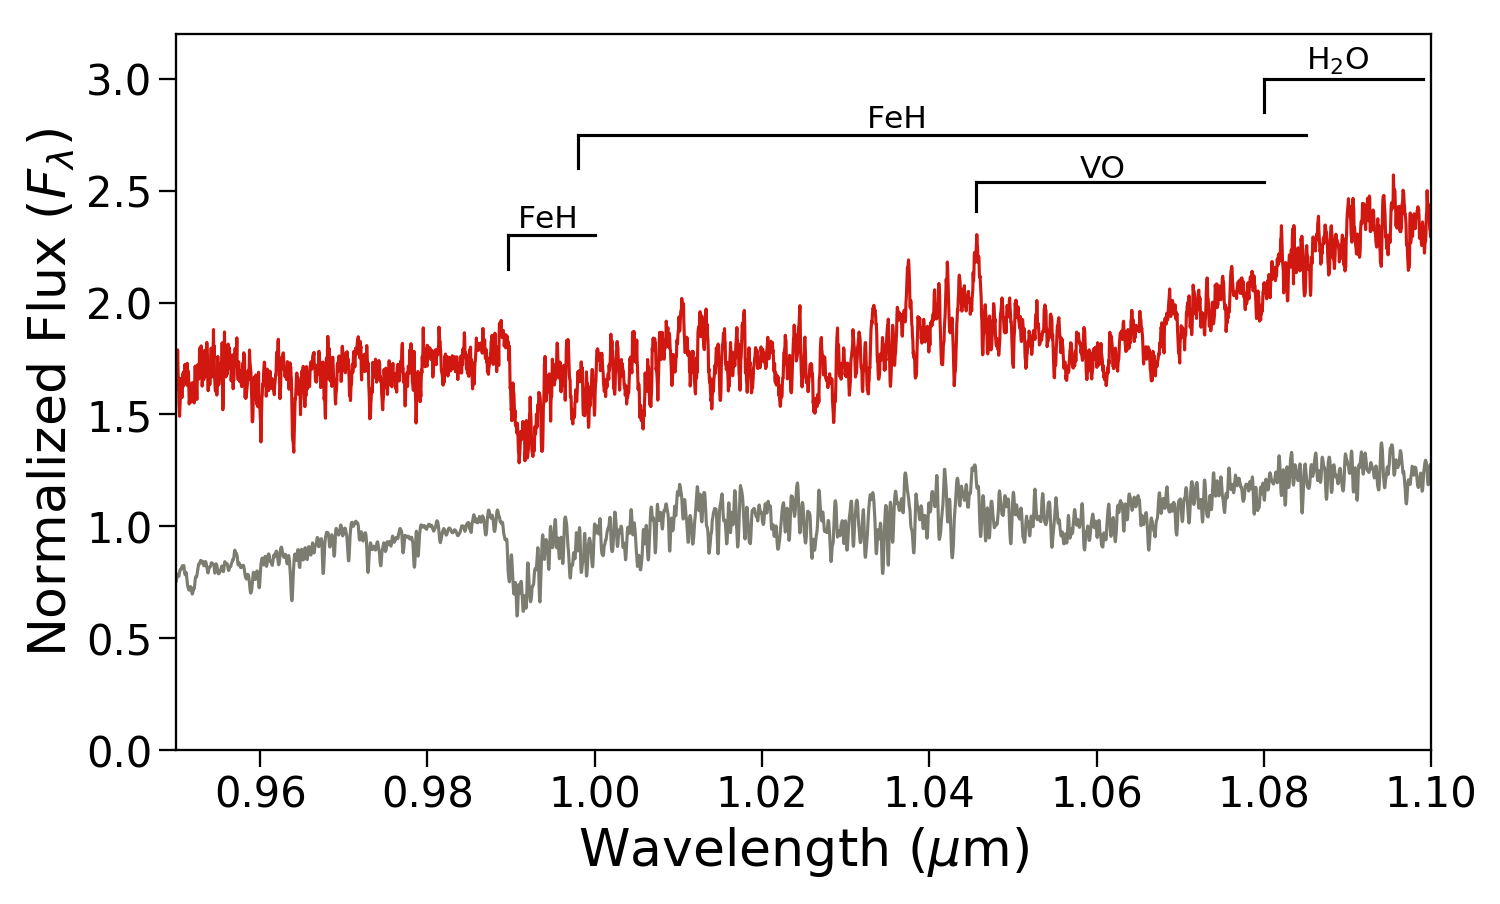
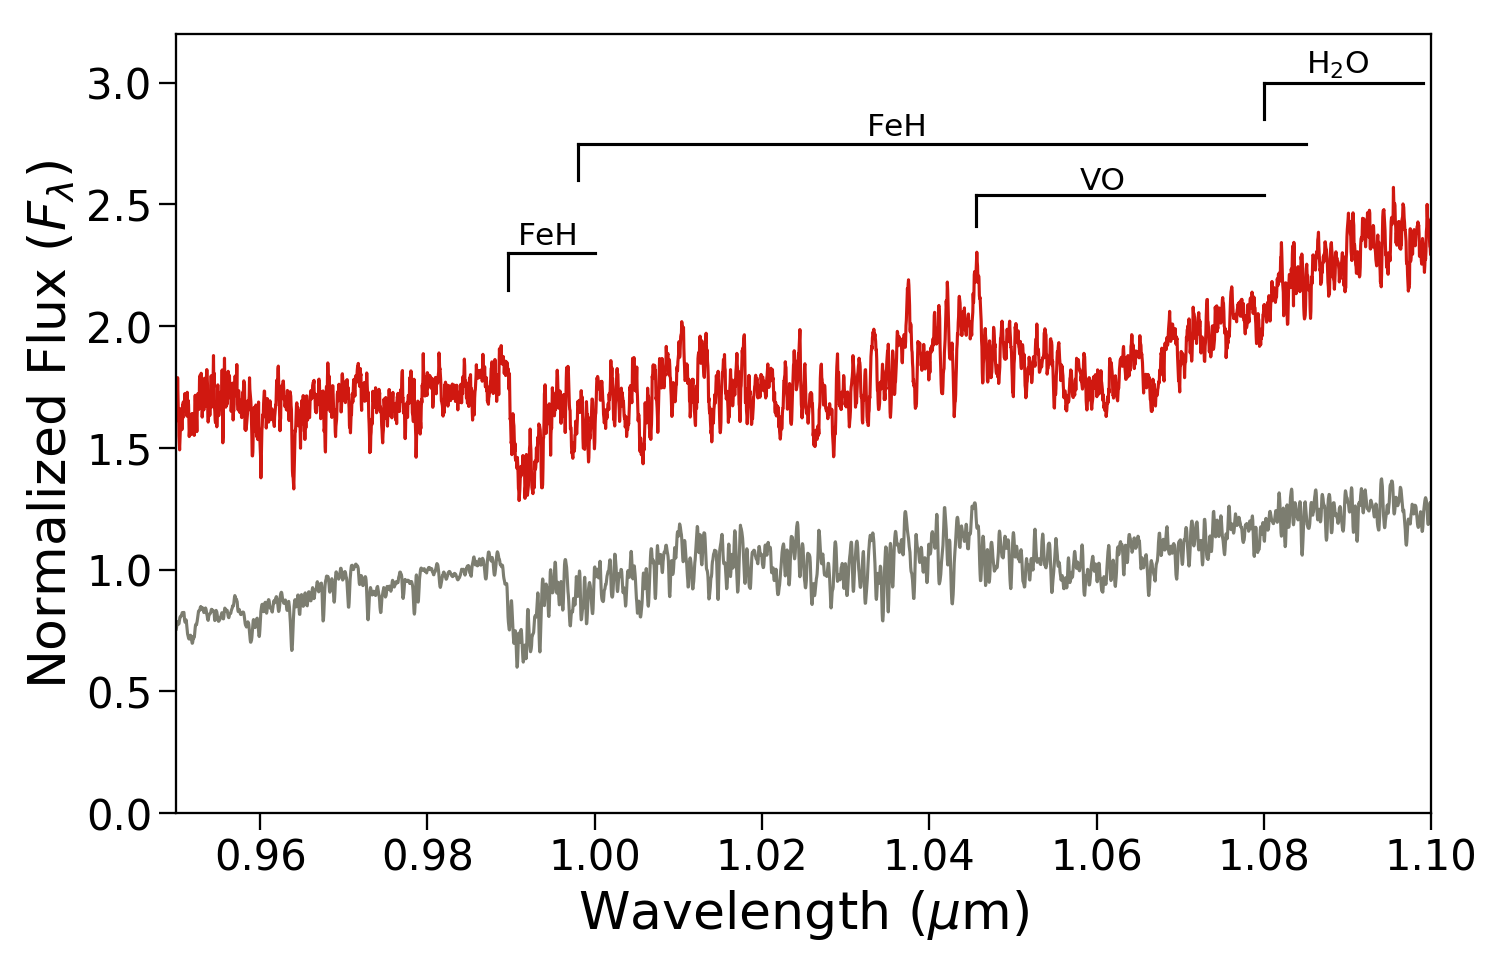
J band added and Y band remake.

diff --git a/Jbandteffcomp.py b/Jbandteffcomp.py
@@ -1,0 +1,142 @@
+import pandas as pd
+import numpy as np
+import matplotlib.pyplot as plt
+
+# ------------------------------------------------------------------------------------
+# ------------------- Read in Spectra and Photometry files ---------------------------
+# ------------------------------------------------------------------------------------
+# Read  all in as pandas dataframes
+df_trap = pd.read_csv('Data/FIRE2306-0502 (M7.5) SED.txt', sep=" ", comment='#', header=None,
+                      names=["w", "f", "err"])
+
+# Comparison objects with same Teff
+# ----Field---
+df_vb8 = pd.read_csv('Data/field_comp/1655-0823 (M7) SED.txt', sep=" ", comment='#', header=None,
+                       names=["w", "f", "err"])
+# ----Young----
+df_twa27 = pd.read_csv('Data/young_comp/1207-3932A (M8) SED.txt', sep=" ", comment='#', header=None,
+                      names=["w", "f", "err"])
+df_twa28 = pd.read_csv('Data/young_comp/1102-3430 (M8.5gamma) SED.txt', sep=" ", comment='#', header=None,
+                      names=["w", "f", "err"])
+df_twa26 = pd.read_csv('Data/young_comp/FIRE1139-3159 (M9gamma) SED.txt', sep=" ", comment='#', header=None,
+                      names=["w", "f", "err"])
+df_twa29 = pd.read_csv('Data/young_comp/FIRE1245-4429 (M9.5) SED.txt', sep=" ", comment='#', header=None,
+                      names=["w", "f", "err"])
+
+# -------------------------------------------------------------------------------------
+# ------------------------- Normalize the spectra -------------------------------------
+# -------------------------------------------------------------------------------------
+# Determine region good for all spectra to take the average flux over
+norm_region = df_trap[(df_trap['w'] >= 1.22) & (df_trap['w'] <= 1.23)]
+norm_df_trap = df_trap['f']/(np.average(norm_region['f']))
+
+norm_region2 = df_vb8[(df_vb8['w'] >= 1.22) & (df_vb8['w'] <= 1.23)]
+norm_df_vb8 = df_vb8['f']/(np.average(norm_region2['f']))
+
+norm_region3 = df_twa27[(df_twa27['w'] >= 1.22) & (df_twa27['w'] <= 1.23)]
+norm_df_twa27 = df_twa27['f']/(np.average(norm_region3['f']))
+
+norm_region4 = df_twa28[(df_twa28['w'] >= 1.22) & (df_twa28['w'] <= 1.23)]
+norm_df_twa28 = df_twa28['f']/(np.average(norm_region4['f']))
+
+norm_region5 = df_twa26[(df_twa26['w'] >= 1.22) & (df_twa26['w'] <= 1.23)]
+norm_df_twa26 = df_twa26['f']/(np.average(norm_region5['f']))
+
+norm_region6 = df_twa29[(df_twa29['w'] >= 1.22) & (df_twa29['w'] <= 1.23)]
+norm_df_twa29 = df_twa29['f']/(np.average(norm_region6['f']))
+
+# -------------------------------------------------------------------------------------
+# ---------------------- Plotting: J band comparison ----------------------------------
+# -------------------------------------------------------------------------------------
+# ------ Set up figure layout --------
+fig = plt.figure()
+ax1 = fig.add_subplot(111)
+fig.set_size_inches(8.5, 11)
+plt.gcf().subplots_adjust(bottom=0.15, left=0.15)
+plt.xlim([1.12, 1.35])
+plt.ylim([0, 5])
+for axis in ['top', 'bottom', 'left', 'right']:  # Thicken the frame
+    ax1.spines[axis].set_linewidth(1.1)
+
+# ------Tick size and Axes Labels --------
+ax1.tick_params(axis='both', labelsize=20, length=8, width=1.1)
+plt.xlabel('Wavelength ($\mu$m)', fontsize=25)
+plt.ylabel('Normalized Flux ($F_\lambda$)', fontsize=25)
+
+# -------- Add data -----------
+ax1.plot(df_vb8['w'], norm_df_vb8, c='#7C7D70')
+ax1.plot(df_trap['w'], norm_df_trap + 1, c='k')
+ax1.plot(df_twa27['w'], norm_df_twa27 + 1.5, c='#FF6C11')
+ax1.plot(df_twa28['w'], norm_df_twa28 + 2, c='#E8470F')
+ax1.plot(df_twa26['w'], norm_df_twa26 + 2.5, c='#FF3215')
+ax1.plot(df_twa29['w'], norm_df_twa29 + 3.1, c='#E81011')
+
+#TODO: Add these labels in later
+# ------- Label Features --------------------------
+NaI = pd.DataFrame()
+NaI['x'] = [1.13656, 1.14269]
+NaI['y'] = [1.3, 1.3]
+plt.plot(NaI['x'], NaI['y'], color='k')
+ax1.annotate('FeH', xy=(0.9896, 4.41), color='k', fontsize=15)
+ax1.text(0.0625, 0.32, 'Na$\,$I', transform=ax1.transAxes, color='k', fontsize=15)
+# ----- Making each of the vertical lines on each end --------
+NaId = pd.DataFrame()
+NaId['x'] = [1.13656, 1.13656]
+NaId['y'] = [1.3, 1.4]
+plt.plot(NaId['x'], NaId['y'], color='k')
+NaId2 = pd.DataFrame()
+NaId2['x'] = [1.14269, 1.14269]
+NaId2['y'] = [1.3, 1.4]
+plt.plot(NaId2['x'], NaId2['y'], color='k')
+
+KI1 = pd.DataFrame()
+KI1['x'] = [1.16569, 1.18225]
+KI1['y'] = [0.3, 0.3]
+plt.plot(KI1['x'], KI1['y'], color='k')
+ax1.text(0.22, 0.04, 'K$\,$I', transform=ax1.transAxes, color='k', fontsize=15)
+# ----- Making each of the vertical lines on each end --------
+KI1up1 = pd.DataFrame()
+KI1up1['x'] = [1.16569, 1.16569]
+KI1up1['y'] = [0.3, 0.4]
+plt.plot(KI1up1['x'], KI1up1['y'], color='k')
+KI1up2 = pd.DataFrame()
+KI1up2['x'] = [1.18225, 1.18225]
+KI1up2['y'] = [0.3, 0.4]
+plt.plot(KI1up2['x'], KI1up2['y'], color='k')
+
+FeH = pd.DataFrame()
+FeH['x'] = [1.19, 1.24]
+FeH['y'] = [2.7, 2.7]
+plt.plot(FeH['x'], FeH['y'], color='k')
+ax1.text(0.38, 0.78, 'FeH', transform=ax1.transAxes, color='k', fontsize=15)
+FeHd = pd.DataFrame()
+FeHd['x'] = [1.19, 1.19]
+FeHd['y'] = [2.55, 2.7]
+plt.plot(FeHd['x'], FeHd['y'], color='k')
+
+KI2 = pd.DataFrame()
+KI2['x'] = [1.24175, 1.25616]
+KI2['y'] = [0.6, 0.6]
+plt.plot(KI2['x'], KI2['y'], color='k')
+ax1.text(0.55, 0.12, 'K$\,$I', transform=ax1.transAxes, color='k', fontsize=15)
+KI2up1 = pd.DataFrame()
+KI2up1['x'] = [1.24175, 1.24175]
+KI2up1['y'] = [0.6, 0.7]
+plt.plot(KI2up1['x'], KI2up1['y'], color='k')
+KI2up2 = pd.DataFrame()
+KI2up2['x'] = [1.25616, 1.25616]
+KI2up2['y'] = [0.6, 0.7]
+plt.plot(KI2up2['x'], KI2up2['y'], color='k')
+
+H2O = pd.DataFrame()
+H2O['x'] = [1.32, 1.35]
+H2O['y'] = [2.9, 2.9]
+plt.plot(H2O['x'], H2O['y'], color='k')
+ax1.text(0.9, 0.84, 'H$_\mathrm{2} $O', transform=ax1.transAxes, color='k', fontsize=15)
+H2Od = pd.DataFrame()
+H2Od['x'] = [1.32, 1.32]
+H2Od['y'] = [2.75, 2.9]
+plt.plot(H2Od['x'], H2Od['y'], color='k')
+
+plt.tight_layout()
+plt.savefig('Figures/Jbandteffcomp.png', dpi=150)

diff --git a/Jband_bestfitcomp.py b/Jband_bestfitcomp.py
@@ -11,23 +11,22 @@ df_trap = pd.read_csv('Data/FIRE2306-0502 (M7.5) SED.txt', sep=" ", comment='#',
                       names=["w", "f", "err"])
 
 # Comparison objects that fit the overall SED shape the best
-df_2154 = pd.read_csv('Data/young_comp/FIRE2154-7459 (M9.5beta) SED.txt', sep=" ", comment='#', header=None,
+df_2154 = pd.read_csv('Data/young_comp/FIRE2154-7459 (M9.5beta) SED1.txt', sep=" ", comment='#', header=0,
                       names=["w", "f", "err"])
 df_HD = pd.read_csv('../Atmospheres_paper/Data/HD114762B (M9sd) SED.txt', sep=" ", comment='#', header=None,
                     names=["w", "f", "err"])
-
 
 # -------------------------------------------------------------------------------------
 # ------------------------- Normalize the spectra -------------------------------------
 # -------------------------------------------------------------------------------------
 # Determine region good for all spectra to take the average flux over
-norm_region = df_trap[(df_trap['w'] >= 0.98) & (df_trap['w'] <= 0.988)]
+norm_region = df_trap[(df_trap['w'] >= 1.29) & (df_trap['w'] <= 1.31)]
 norm_df_trap = df_trap['f']/(np.average(norm_region['f']))
 
-norm_region2 = df_2154[(df_2154['w'] >= 0.98) & (df_2154['w'] <= 0.988)]
+norm_region2 = df_2154[(df_2154['w'] >= 1.29) & (df_2154['w'] <= 1.31)]
 norm_df_young = df_2154['f']/(np.average(norm_region2['f']))
 
-norm_region3 = df_HD[(df_HD['w'] >= 0.98) & (df_HD['w'] <= 0.988)]
+norm_region3 = df_HD[(df_HD['w'] >= 1.29) & (df_HD['w'] <= 1.31)]
 norm_df_old = df_HD['f']/(np.average(norm_region3['f']))
 
 # -------------------------------------------------------------------------------------
@@ -38,7 +37,7 @@ fig = plt.figure()
 ax1 = fig.add_subplot(111)
 fig.set_size_inches(10, 6.45)
 plt.gcf().subplots_adjust(bottom=0.15, left=0.15)
-plt.xlim([0.95, 1.10])
+plt.xlim([1.12, 1.35])
 plt.ylim([0, 3.2])
 for axis in ['top', 'bottom', 'left', 'right']:  # Thicken the frame
     ax1.spines[axis].set_linewidth(1.1)
@@ -52,49 +51,10 @@ plt.ylabel('Normalized Flux ($F_\lambda$)', fontsize=25)
 # -------- Add data -----------
 #ax1.plot(df_HD['w'], norm_df_old, c='blue')
 ax1.plot(df_trap['w'], norm_df_trap, c='#7C7D70')
-ax1.plot(df_2154['w'], norm_df_young + 0.75, c='#D01810')
+ax1.plot(df_2154['w'], norm_df_young + 1, c='#D01810')
 
+#TODO: Add these labels in later
 # --- To make line for features ---------
-FeH1 = pd.DataFrame()
-FeH1['x'] = [0.9896, 1.0]
-FeH1['y'] = [2.3, 2.3]
-plt.plot(FeH1['x'], FeH1['y'], color='k')
-ax1.text(0.272, 0.73, 'FeH', transform=ax1.transAxes, color='k', fontsize=15)
-# -- To make a vertical line
-FeH1d = pd.DataFrame()
-FeH1d['x'] = [0.9896, 0.9896]
-FeH1d['y'] = [2.15, 2.3]
-plt.plot(FeH1d['x'], FeH1d['y'], color='k')
-
-FeH2 = pd.DataFrame()
-FeH2['x'] = [0.998, 1.085]
-FeH2['y'] = [2.75, 2.75]
-plt.plot(FeH2['x'], FeH2['y'], color='k')
-ax1.text(0.55, 0.87, 'FeH', transform=ax1.transAxes, color='k', fontsize=15)
-FeH2d = pd.DataFrame()
-FeH2d['x'] = [0.998, 0.998]
-FeH2d['y'] = [2.6, 2.75]
-plt.plot(FeH2d['x'], FeH2d['y'], color='k')
-
-VO = pd.DataFrame()
-VO['x'] = [1.0456, 1.08]
-VO['y'] = [2.54, 2.54]
-plt.plot(VO['x'], VO['y'], color='k')
-ax1.text(0.72, 0.8, 'VO', transform=ax1.transAxes, color='k', fontsize=15)
-VOd = pd.DataFrame()
-VOd['x'] = [1.0456, 1.0456]
-VOd['y'] = [2.54, 2.41]
-plt.plot(VOd['x'], VOd['y'], color='k')
-
-H2O = pd.DataFrame()
-H2O['x'] = [1.08, 1.099]
-H2O['y'] = [3, 3]
-plt.plot(H2O['x'], H2O['y'], color='k')
-ax1.text(0.9, 0.95, 'H$_\mathrm{2} $O', transform=ax1.transAxes, color='k', fontsize=15)
-H2Od = pd.DataFrame()
-H2Od['x'] = [1.08, 1.08]
-H2Od['y'] = [2.85, 3]
-plt.plot(H2Od['x'], H2Od['y'], color='k')
 
 plt.tight_layout()
-plt.savefig('Figures/Ybandbestfit.png', dpi=150)
+plt.savefig('Figures/Jbandbestfit.png', dpi=150)
